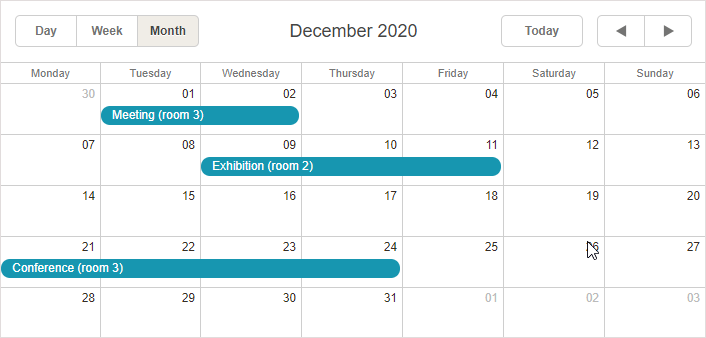
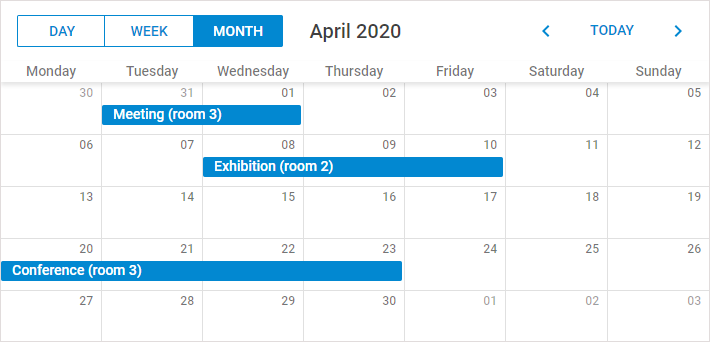
[update] using material skin in the how to start guide

diff --git a/data/how_to_start.md b/data/how_to_start.md
@@ -20,7 +20,7 @@ The required code files are:
 
 
 - *dhtmlxscheduler.js*
-- *dhtmlxscheduler.css*
+- *dhtmlxscheduler_material.css* (to use the Material skin, you can also [explore the available skins](skins.md))
 
 
 ~~~html
@@ -29,7 +29,8 @@ The required code files are:
 <head>
    <title>How to start</title>
    <script src="../scheduler/dhtmlxscheduler.js" type="text/javascript"></script>
-   <link rel="stylesheet" href="../scheduler/dhtmlxscheduler.css" type="text/css">
+   <link rel="stylesheet" href="../scheduler/dhtmlxscheduler_material.css" 
+   		type="text/css">
 </head>
 <body>
    	//your code will be here
